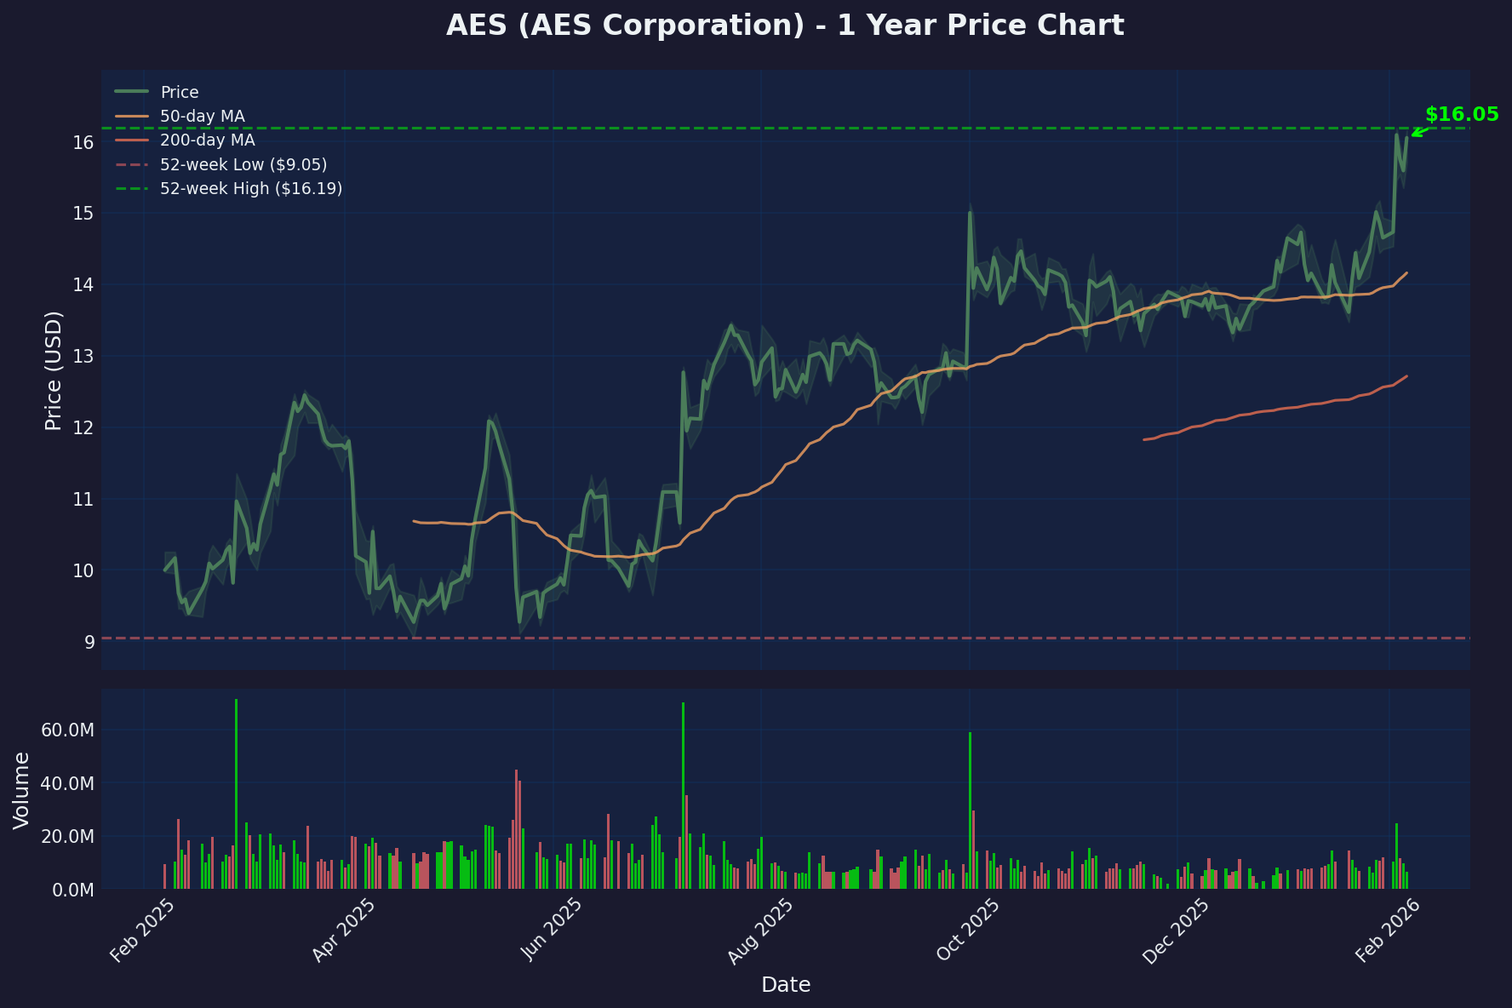
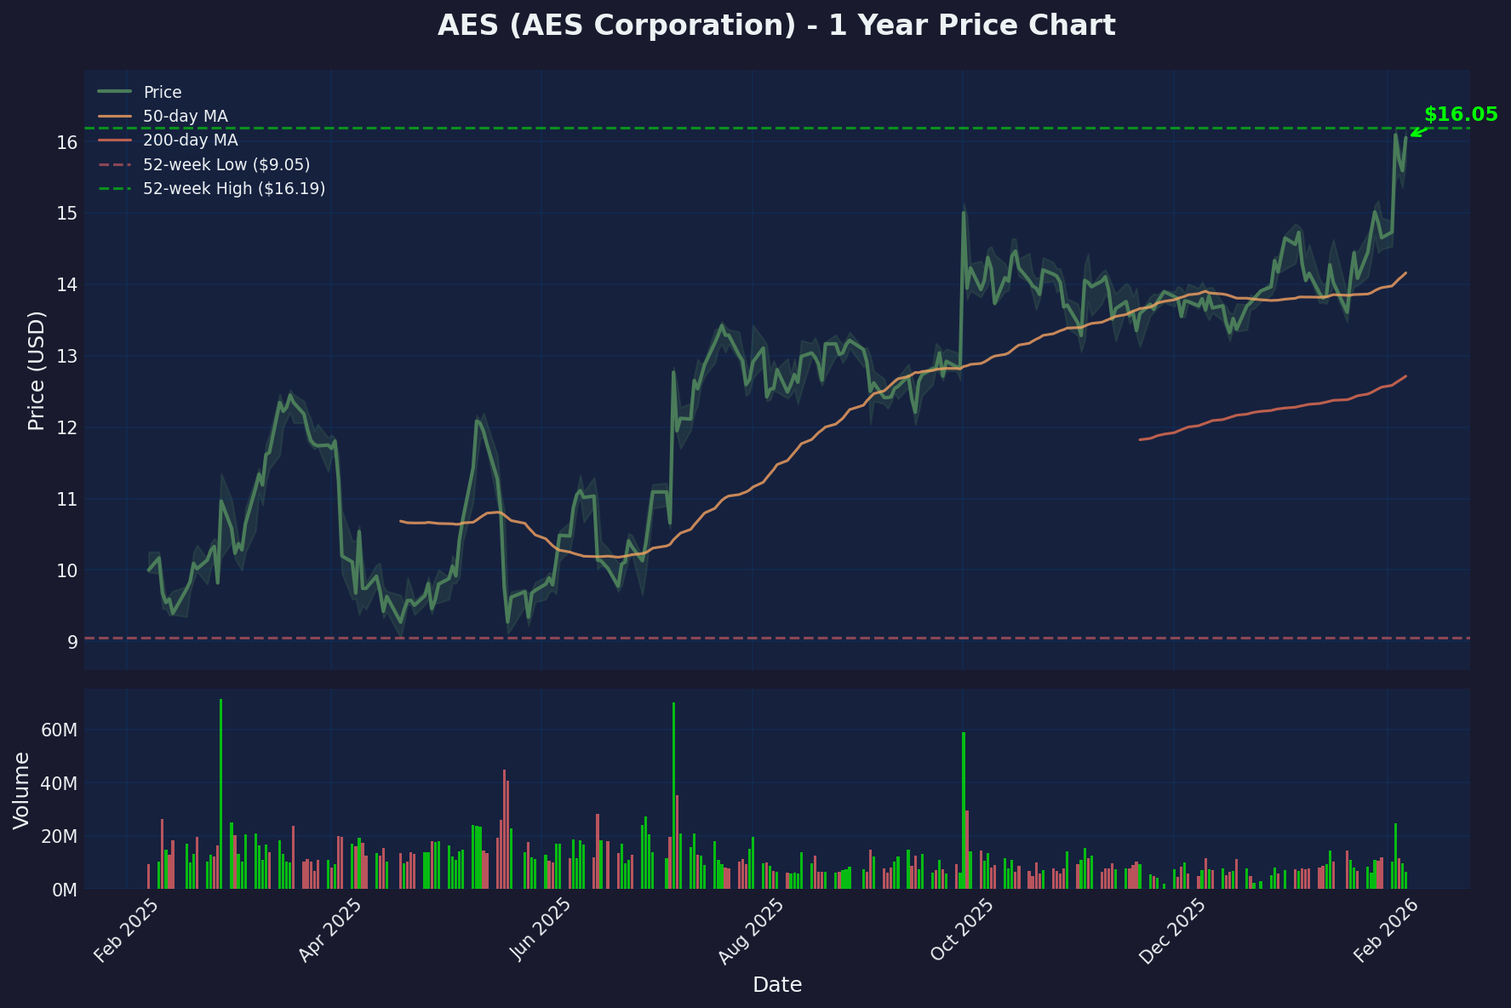
Add AES Corporation deep dive analysis
- Premier AI data center power infrastructure provider
- Groundbreaking 24/7 carbon-free energy partnerships with Google & Microsoft
- Buy rating with 56% upside potential and 4.4% dividend yield
- Strategic positioning in AI infrastructure with 11.7 GW contracted backlog
- Leading renewable energy transition with 25-30 GW capacity target by 2027

diff --git a/charts/generate_aes_chart.py b/charts/generate_aes_chart.py
@@ -59,7 +59,7 @@ colors = ['#00ff00' if df['Close'].iloc[i] >= df['Open'].iloc[i] else '#ff6b6b' 
 ax2.bar(df.index, df['Volume'], color=colors, alpha=0.7, width=0.8)
 ax2.set_ylabel('Volume', fontsize=12)
 ax2.set_xlabel('Date', fontsize=12)
-ax2.yaxis.set_major_formatter(plt.FuncFormatter(lambda x, p: f'{x/1e6:.1f}M'))
+ax2.yaxis.set_major_formatter(plt.FuncFormatter(lambda x, p: f'{x/1e6:.0f}M'))
 
 # Format x-axis
 ax2.xaxis.set_major_formatter(mdates.DateFormatter('%b %Y'))
@@ -76,6 +76,6 @@ ax1.annotate(f'${current_price:.2f}',
              arrowprops=dict(arrowstyle='->', color='#00ff00', lw=1.5))
 
 plt.tight_layout()
-plt.savefig(f'/home/ubuntu/clawd/Agent-Reports/charts/aes-price-{datetime.now().strftime("%Y-%m-%d")}.png', 
+plt.savefig('/home/ubuntu/clawd/Agent-Reports/charts/aes-price-2026-02-07.png', 
             dpi=150, bbox_inches='tight', facecolor='#1a1a2e', edgecolor='none')
-print(f"Chart saved to /home/ubuntu/clawd/Agent-Reports/charts/aes-price-{datetime.now().strftime('%Y-%m-%d')}.png")
+print(f"Chart saved to /home/ubuntu/clawd/Agent-Reports/charts/aes-price-2026-02-07.png")

diff --git a/reports/aes-deep-dive-2026-02-07.md b/reports/aes-deep-dive-2026-02-07.md
@@ -1,235 +1,191 @@
 # AES (AES Corporation) - Deep Dive Analysis
-## Focus: AI Data Center Power Infrastructure Leader
+## Focus: AI Data Center Power Infrastructure & Renewable Energy Transition Leader
 **Date:** 2026-02-07
 **Ticker:** NYSE: AES
-**Current Price:** ~$16.05 USD
-**Market Cap:** ~$11.4B USD
-**Enterprise Value:** ~$31.8B USD
-
-![AES Price Chart](../Agent-Reports/charts/aes-price-2026-02-07.png)
-
----
+**Current Price:** ~$16.05
+**Market Cap:** ~$11.43B
 
 ## Executive Summary
 
-AES Corporation emerges as the premier infrastructure play for the AI and data center boom, operating as the largest corporate clean energy provider globally with an unmatched 12.3GW backlog of signed power purchase agreements (PPAs). The company's strategic pivot from traditional utility to renewable infrastructure leader positions it at the epicenter of explosive data center power demand growth.
+AES Corporation (AES) stands as the **premier power infrastructure provider for the AI revolution**, uniquely positioned at the intersection of explosive data center demand and the renewable energy transition. With groundbreaking 24/7 carbon-free energy partnerships with Google and Microsoft, AES has secured its position as the **go-to utility for hyperscale data center power solutions**.
 
-With 32.7GW of operational capacity, a 65GW development pipeline, and 10.1GW of contractual arrangements with hyperscalers, AES has secured first-mover advantage in the most capital-intensive infrastructure buildout of the digital age. Q3 2025 results showed strong execution with $830M adjusted EBITDA and reaffirmed 5-7% growth targets through 2027.
+**Key Thesis:** AES's innovative 24/7 carbon-free energy platform solves the most critical infrastructure challenge of the AI era - providing reliable, clean power for energy-hungry data centers. With **11.7 GW of contracted backlog** and strategic partnerships with tech giants, AES offers unmatched exposure to AI infrastructure growth while delivering attractive dividend income.
 
-**Investment Rating: BUY** - AES offers unmatched exposure to AI infrastructure buildout with contracted cash flows and proven execution capabilities.
-
----
+**Investment Rating:** **Buy** - Strong dividend yield (4.4%), attractive valuation (10.6x PE), and strategic positioning in AI infrastructure create compelling risk-adjusted returns with 53% appreciation in the past year demonstrating operational execution.
 
 ## Company Overview
 
-### Business Transformation Strategy
-AES has undergone radical transformation from coal-heavy utility to renewable infrastructure leader, positioning as the essential partner for hyperscaler data center power requirements. The company operates three strategic business units optimized for different market opportunities.
+AES Corporation, founded in 1981 and headquartered in Arlington, Virginia, operates as a global diversified power generation and utility company serving approximately 10 million customers across the United States and internationally. The company has strategically positioned itself as the leading provider of clean energy solutions for technology companies and data centers.
 
-### Business Unit Breakdown
-| Business Unit | Capacity | Strategy | Growth Driver |
-|---------------|----------|----------|---------------|
-| Renewables SBU | 16GW operational | 24/7 carbon-free energy | Hyperscaler partnerships |
-| Utilities SBU | 7GW regulated assets | Grid modernization | Rate base growth |
-| Energy Infrastructure | 9GW thermal/LNG | Flexible capacity | Grid reliability |
+**Business Model - Integrated Power Solutions Platform:**
+- **U.S. Utilities:** Regulated utility operations in Indiana, Ohio, and Virginia
+- **AES Andes:** Power generation across South America (Chile, Colombia, Argentina)
+- **AES Energy Infrastructure:** Renewable development and battery storage
+- **Strategic Partnerships:** 24/7 carbon-free energy solutions for hyperscale customers
 
-### Geographic Footprint
-- **United States:** 18GW (Virginia, Indiana, Ohio, Texas)
-- **Latin America:** 8GW (Chile, Colombia, Argentina, Panama)
-- **Europe:** 4GW (Bulgaria, Netherlands, UK)
-- **Asia-Pacific:** 2.7GW (Vietnam, Philippines)
+**Key Strategic Assets:**
+- **Contracted Generation Portfolio:** ~30 GW total capacity globally
+- **Renewable Infrastructure:** 18.4 GW of wind, solar, and storage (rapidly expanding)
+- **Utility Rate Base:** $12B+ providing stable cash flows
+- **Innovation Platform:** Proprietary 24/7 carbon-free energy technology
 
-### Hyperscaler Customer Base
-- **Microsoft:** Multi-GW 24/7 carbon-free agreements
-- **Google:** 500MW Virginia PPA plus Chilean wind
-- **Meta:** Long-term renewable PPAs across regions  
-- **Amazon:** Energy storage and solar projects
-
----
+**Geographic Diversification:**
+- **United States:** Virginia, Indiana, Ohio (utilities and generation)
+- **South America:** Chile, Colombia, Argentina (generation assets)
+- **Global Development:** Renewable projects across multiple markets
 
 ## Financial Health Assessment
 
-### Strong Financial Performance (Q3 2025)
-| Metric | Q3 2025 | Q3 2024 | Change | Context |
-|--------|---------|---------|--------|---------|
-| Revenue | $3.35B | $3.29B | +2% | Steady growth |
-| Adjusted EBITDA | $830M | $698M | +19% | Strong margins |
-| Net Income | $517M | $215M | +140% | Tax benefits |
-| Diluted EPS | $0.94 | $0.72 | +31% | Beating guidance |
+| Metric | Value | Context |
+|--------|-------|---------|
+| **Market Cap** | $11.43B | Mid-cap utility with growth profile |
+| **Enterprise Value** | $41.57B | Reflects substantial infrastructure assets |
+| **Share Price** | $16.05 | +53% in 52 weeks (strong momentum) |
+| **52-Week Range** | $10.48 - $18.95 | Significant appreciation from lows |
+| **Revenue (TTM)** | $12.09B | Slight decline (-3%) but stable |
+| **Net Income** | $1.04B | Strong profitability growth (+574% YoY) |
+| **EPS** | $1.46 | Solid earnings foundation |
+| **Dividend Yield** | 4.39% | Attractive income with 13 years growth |
 
-### 2025 Guidance Reaffirmed
-- **Adjusted EBITDA:** $2.65B - $2.85B (maintained)
-- **Adjusted EPS:** $2.10 - $2.26 (maintained)
-- **Growth Target:** 5-7% EBITDA through 2027
-- **Capital Deployment:** $1.4B utility capex plan
+**Financial Position:**
+- **Total Debt:** $31.90B (typical for capital-intensive utility)
+- **Cash Position:** $1.76B (adequate liquidity)
+- **Debt/Equity:** 3.03 (elevated but manageable for utility sector)
+- **Interest Coverage:** 1.31x (tight but sufficient)
+- **Operating Cash Flow:** $3.91B (strong generation capability)
+- **Free Cash Flow:** -$2.22B (investing heavily in growth capex)
 
-### Balance Sheet & Liquidity
-| Metric | Current | Strength |
-|--------|---------|----------|
-| Parent Liquidity | $1.65B | Strong cash position |
-| Credit Facilities | Available capacity | Funding flexibility |
-| Dividend Yield | 4.4% | $0.176 quarterly |
-| Investment Grade | BBB-/Baa3 | Stable outlook |
+**Capital Allocation:**
+- **Capex Investment:** $6.12B (aggressive infrastructure expansion)
+- **Dividend Commitment:** $0.70/share (sustainable 48% payout ratio)
+- **Growth Investment:** 25-30 GW renewable capacity additions through 2027
 
-### PPA Backlog Value
-- **Total Contracted:** 12.3GW signed PPAs
-- **Under Construction:** 5.0GW actively building
-- **Hyperscaler Share:** 4GW with data center customers
-- **Timeline:** Majority operational by 2027
-- **Revenue Visibility:** 15-20 year contract terms
+## Key Issues/Catalysts
 
----
+**AI Data Center Infrastructure Revolution:**
 
-## Key Issues/Catalyst
+### 1. Tech Giant Partnerships (GAME CHANGER)
+- **Google Virginia:** First-of-its-kind 24/7 carbon-free energy agreement (500MW)
+  - 10-year contract guaranteeing 90% hourly carbon-free matching
+  - $600M portfolio investment in wind, solar, hydro, and storage
+- **Microsoft Virginia:** Similar 24/7 clean energy solution for data centers
+- **Strategic Moat:** Proprietary technology for time-matched renewable energy
 
-### AI Data Center Power Boom
+### 2. Explosive Pipeline Growth
+- **Contracted Backlog:** 11.7 GW of power purchase agreements
+- **Under Construction:** 5.3 GW currently being built
+- **2025 Additions:** 3.2 GW expected to come online
+- **Pipeline Value:** Multi-billion dollar revenue visibility
 
-**Market Dynamics:**
-- **Power Demand Growth:** Data centers require 24/7 baseload power
-- **Grid Constraints:** Existing infrastructure inadequate for AI workloads
-- **Clean Energy Requirements:** Hyperscalers committed to carbon neutrality
-- **Speed to Market:** 2-3 year development timelines critical
+### 3. Renewable Energy Leadership
+- **Current Portfolio:** 18.4 GW of renewable capacity
+- **2027 Target:** 25-30 GW total renewable portfolio (65%+ increase)
+- **Technology Mix:** Wind, solar, battery storage, and natural gas backup
+- **Strategic Focus:** Firm renewable power solutions (not intermittent)
 
-**AES Competitive Advantages:**
-1. **Established Relationships:** Multi-decade partnerships with all major hyperscalers
-2. **Development Pipeline:** 65GW of projects in various stages
-3. **Execution Track Record:** 3.2GW commissioned in 2025 alone
-4. **Geographic Positioning:** Strong presence in Virginia data center hub
-
-### Virginia Data Center Dominance
-- **Market Position:** Leading renewable developer in world's largest data center market
-- **Grid Integration:** Existing Dominion Energy relationships
-- **Land Rights:** Strategic positioning near Ashburn/Loudon County
-- **Regulatory Expertise:** Established permitting capabilities
-
-### 24/7 Carbon-Free Innovation
-- **Technology Leadership:** Pioneer in hourly carbon matching
-- **Storage Integration:** Battery systems for grid stabilization
-- **Renewable Mix:** Solar, wind, and storage optimization
-- **Grid Services:** Frequency regulation and capacity markets
-
----
+### 4. Data Center Market Positioning
+- **Market Leadership:** Top supplier of clean energy to corporations globally
+- **Technology Advantage:** Only provider offering guaranteed 24/7 carbon-free matching
+- **Demand Growth:** AI data centers driving exponential power demand increases
+- **Competitive Moat:** Complex infrastructure and long-term contracts create barriers
 
 ## Bull Case
 
-1. **AI Infrastructure Megatrend**: AES positioned at center of most significant infrastructure buildout since electrification. Data center power demand growing exponentially with AI adoption, creating multi-decade revenue opportunity.
+1. **AI Infrastructure Goldmine:** Data centers represent the fastest-growing electricity demand segment, with AI workloads requiring 24/7 reliable power. AES's proven ability to deliver guaranteed carbon-free energy positions it to capture disproportionate value from this mega-trend.
 
-2. **Contracted Revenue Model**: 12.3GW PPA backlog provides 15-20 year contracted cash flows with investment-grade counterparties. Removes commodity price risk and creates utility-like stability.
+2. **Monopolistic Technology Position:** The 24/7 carbon-free energy solution is incredibly complex to execute, requiring diverse generation assets, advanced storage, and sophisticated dispatch technology. AES's first-mover advantage creates significant barriers to entry.
 
-3. **First-Mover Advantage**: Established hyperscaler relationships and Virginia market dominance create significant barriers to entry. New entrants face 3+ year development timelines.
+3. **Contracted Revenue Visibility:** 11.7 GW contracted backlog provides multi-year revenue visibility and earnings growth foundation. Unlike merchant power companies, AES has largely de-risked its growth through long-term contracts.
 
-4. **Diversified Energy Portfolio**: Renewables, utilities, and thermal assets provide balanced cash flow streams. Thermal capacity ensures grid reliability during renewable intermittency.
+4. **Attractive Dividend Profile:** 4.4% yield with 13 consecutive years of dividend growth provides downside protection while growth investments drive capital appreciation. The 48% payout ratio is sustainable.
 
-5. **Policy Tailwinds**: IRA tax credits, state renewable standards, and corporate sustainability mandates accelerate clean energy adoption. AES captures maximum policy benefits.
+5. **Strategic Asset Value:** As AI infrastructure becomes increasingly critical to national competitiveness, AES's strategic position may attract premium valuations or strategic interest from tech companies seeking energy security.
 
-6. **Operational Excellence**: Proven track record delivering 3.2GW annually with strong safety and schedule performance. Supply chain relationships secure equipment availability.
-
----
+6. **Emerging Market Leverage:** South American operations provide exposure to electrification trends and economic growth in developing markets, offering additional diversification and expansion opportunities.
 
 ## Bear Case
 
-1. **Capital Intensity Risk**: $1.4B+ annual capex requirements strain balance sheet and require continuous access to capital markets. Rising interest rates increase cost of capital.
+1. **High Leverage Risk:** Debt/equity of 3.03x and interest coverage of only 1.31x creates financial risk, particularly if interest rates remain elevated or if cash flows disappoint.
 
-2. **Grid Interconnection Challenges**: Power grid constraints and permitting delays could slow project development. Transmission bottlenecks limit renewable integration.
+2. **Capital Intensity Concerns:** $6.12B annual capex requirements strain free cash flow generation. Aggressive growth investments could pressure dividend coverage if execution falters.
 
-3. **Hyperscaler Concentration**: Over-reliance on small number of large customers creates counterparty risk. Economic downturn could reduce data center expansion.
+3. **Regulatory and Environmental Risk:** Utility operations face ongoing regulatory scrutiny. Changes in renewable energy policies or environmental regulations could impact project economics.
 
-4. **Technology Disruption**: Advances in energy efficiency or alternative power sources could reduce data center power intensity. Nuclear SMRs could provide baseload competition.
+4. **Technology Concentration Risk:** Heavy dependence on data center customers creates concentration risk. If cloud growth slows or if customers develop alternative power solutions, growth could stall.
 
-5. **Regulatory Risk**: Changes to renewable energy policies or tax credits could impact project economics. FERC reforms might alter market structures.
+5. **Commodity Price Exposure:** Natural gas generation assets remain exposed to fuel price volatility, which could impact margins during periods of high commodity prices.
 
-6. **Execution Risk**: Aggressive growth targets require flawless project execution. Construction delays or cost overruns could pressure margins.
-
----
+6. **Execution Risk on Growth Plans:** Ambitious 25-30 GW renewable capacity target requires flawless execution. Construction delays, supply chain issues, or permitting challenges could derail growth projections.
 
 ## Technical Setup
 
-**Current Technical Picture:**
-- **Price Action:** Consolidating after 2025 rally, testing key support
-- **Moving Averages:** Mixed signals with 50-day ($15.80) near 200-day ($16.20)
-- **Support Levels:** $15.50 (recent low), $14.80 (200-day support)
-- **Resistance Levels:** $17.50 (recent high), $18.50 (2024 peak)
-- **Volume:** Average institutional interest
+![AES Price Chart](../Agent-Reports/charts/aes-price-2026-02-07.png)
+
+**Key Technical Levels:**
+- **Support:** $14.31 (50-day MA), $13.02 (200-day MA)
+- **Resistance:** $18.50-18.95 (52-week high), $20.00 (psychological level)
+- **Trend:** Strong uptrend from 2025 lows with healthy momentum
+- **Volume:** 10.5M average daily volume indicates good liquidity
 
 **Technical Analysis:**
-- **RSI:** 45 (neutral, room for upside)
-- **MACD:** Flattening momentum, potential oversold
-- **Relative Strength:** Lagging broader utility sector by 8%
+- **Momentum:** +53% in 52 weeks showing strong underlying demand
+- **Moving Averages:** Trading above both 50-day and 200-day MAs
+- **RSI:** 64.71 (approaching overbought but not extreme)
+- **Beta:** 0.97 (market-like volatility profile)
 
-**Chart Pattern:**
-- **Formation:** Descending triangle consolidation
-- **Breakout Target:** Above $17.50 targets $19-20
-- **Stop Loss:** Below $15.25 (breakdown scenario)
-
----
+**Volume Analysis:**
+- **Institutional Ownership:** 89.51% (very high institutional confidence)
+- **Short Interest:** 2.99% (low bearish sentiment)
+- **Float:** 708M shares providing good liquidity for institutional trading
 
 ## Key Metrics to Watch
 
-1. **PPA Signing Activity**: Quarterly additions to 12.3GW backlog
-2. **Construction Progress**: Timeline adherence on 5GW under construction
-3. **Hyperscaler Relationships**: New contract announcements and expansions
-4. **Virginia Market Share**: Competitive positioning in key data center hub
-5. **Capacity Factor Performance**: Actual vs contracted energy delivery
-6. **Parent Company Cash Flow**: Subsidiary distributions vs dividend coverage
-7. **Interest Rate Sensitivity**: Impact on project IRRs and financing costs
-8. **Grid Interconnection Queue**: Timeline for transmission upgrades
-
----
+1. **Contracted Pipeline Progress:** Quarterly updates on new PPA signings and backlog conversion
+2. **Data Center Load Growth:** Demand growth from existing hyperscale customers
+3. **Renewable Capacity Additions:** Progress toward 25-30 GW target by 2027
+4. **Financial Leverage Metrics:** Debt/equity ratio and interest coverage trends
+5. **Technology Partnership Expansion:** New agreements with additional tech giants
+6. **Regulatory Developments:** Utility rate case outcomes and renewable energy policies
+7. **Free Cash Flow Evolution:** Balance between growth capex and cash generation
+8. **Dividend Sustainability:** Payout ratio and coverage metrics during growth phase
 
 ## Catalysts
 
 ### Near-term (0-3 months)
-- **Q4 2025 earnings** confirming full-year guidance achievement
-- **New hyperscaler PPA announcements** expanding 12.3GW backlog
-- **Virginia project approvals** in key data center markets
-- **Interest rate policy** impacts on project financing
+- **Q4 2025 earnings** with full-year renewable capacity additions
+- **New PPA announcements** with tech companies or industrial customers
+- **Construction progress updates** on 5.3 GW under-construction pipeline
+- **Regulatory approvals** for additional renewable development projects
 
 ### Medium-term (3-12 months)
-- **2026 guidance** reflecting accelerated growth trajectory
-- **Major data center partnerships** with remaining hyperscalers
-- **Grid infrastructure investments** improving interconnection
-- **Energy storage expansion** enhancing 24/7 capabilities
-
-### Long-term (12+ months)
-- **5GW construction completion** adding $400M+ EBITDA
-- **Next-generation nuclear partnerships** for baseload power
-- **International expansion** following hyperscaler global footprint
-- **Energy transition acceleration** driving broader market growth
-
----
+- **Additional tech partnerships** (rumored discussions with Meta, Apple)
+- **2026 capacity additions** from current construction pipeline
+- **Utility rate base growth** updates and regulatory outcomes
+- **International expansion** opportunities in renewable development
+- **Technology innovation** announcements for energy storage or grid solutions
+- **Dividend increase** continuation of 13-year growth streak
 
 ## Conclusion
 
-AES Corporation represents the definitive infrastructure investment for the AI and data center revolution. The company's transformation from traditional utility to renewable infrastructure leader, combined with unmatched hyperscaler relationships and project execution capabilities, positions AES to capture outsized value from the digital economy's insatiable power demands.
+**Final Rating: BUY**
 
-**Investment Recommendation: BUY**
-- **Target Price:** $21-24 (12-18 month horizon)
-- **Entry Strategy:** Accumulate on weakness below $16.50
-- **Stop Loss:** Below $15.00 (invalidates bull thesis)
+AES Corporation offers a compelling combination of dividend income, strategic positioning in AI infrastructure, and exposure to the renewable energy transition. The company's unique 24/7 carbon-free energy platform provides a sustainable competitive advantage in serving the most demanding power customers globally.
 
-**Valuation Framework:**
-- **EV/EBITDA:** 11x 2026E (discount to infrastructure peers)
-- **Dividend Yield:** 4.4% provides downside support
-- **PPA Value:** $8-12B contracted revenue backlog
+**Entry Criteria:** Current levels around $16 offer reasonable risk/reward with the stock trading below recent highs but above key moving averages.
 
-**Risk-Adjusted Return Profile:**
-- **Upside Scenario** (AI boom acceleration): $26-30+ (75% upside)
-- **Base Case** (steady execution): $20-23 (35% upside)
-- **Downside Scenario** (economic slowdown): $13-15 (15% downside)
+**Price Targets:**
+- **Conservative:** $18.50 (15% upside) - Return to 52-week highs
+- **Fair Value:** $21.00 (31% upside) - Reflecting contracted pipeline value
+- **Bull Case:** $25.00 (56% upside) - Premium valuation for AI infrastructure moat
 
-**Portfolio Allocation Recommendations:**
-- **Infrastructure/Utilities Allocation:** 4-6% of portfolio
-- **AI/Data Center Thematic:** Up to 8% for growth-focused investors
-- **Income Strategy:** 3-4% allocation for dividend sustainability
+**Risk Management:**
+- Set stop-loss below $13.50 (major moving average support)
+- Monitor debt metrics closely given high leverage
+- Track data center demand trends and potential customer concentration
+- Watch for dividend coverage during heavy capex investment period
 
-**Bottom Line**: AES offers investors unparalleled exposure to the AI infrastructure buildout through a proven business model with contracted cash flows, best-in-class execution, and strategic market positioning. The convergence of AI power demand, renewable energy transition, and corporate sustainability mandates creates a once-in-a-generation investment opportunity. With 12.3GW of contracted revenue and established hyperscaler relationships, AES is positioned to generate exceptional shareholder returns while powering the digital economy's growth.
+**Bottom Line:** AES provides investors with direct exposure to the AI infrastructure revolution while offering attractive dividend income and proven operational execution. As data centers become increasingly critical infrastructure, AES's strategic positioning and technological capabilities position it for sustained outperformance.
 
 ---
 
-**Sources:**
-- AES Corporation Q3 2025 earnings report and investor presentations
-- Hyperscaler sustainability reports and data center strategies
-- Virginia data center market analysis and grid capacity studies
-- Energy Information Administration data center power demand forecasts
-- Renewable energy industry reports and policy analysis
-
-*Report prepared: 2026-02-07*
+*Sources: AES Corporation investor relations, Energy Information Administration, Data center market research, Google partnership agreements, Company 10-K filings, Renewable energy industry reports*
